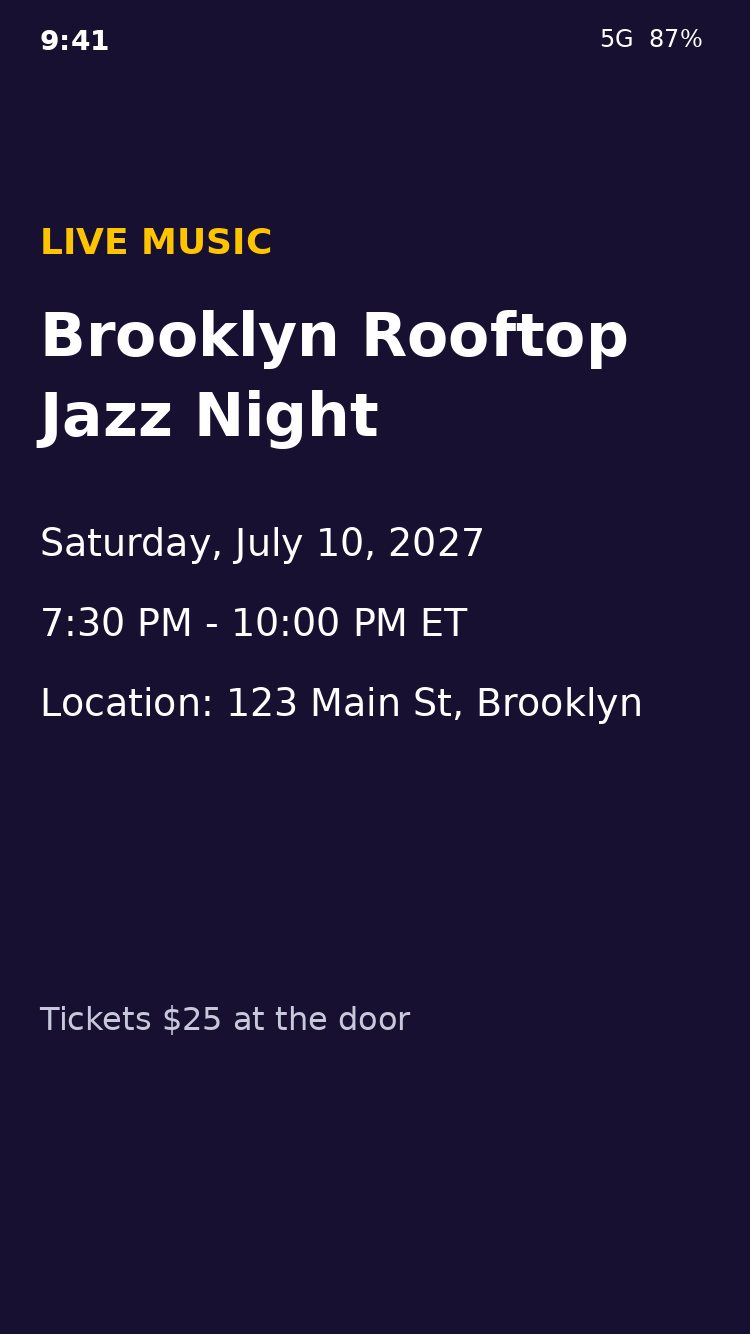
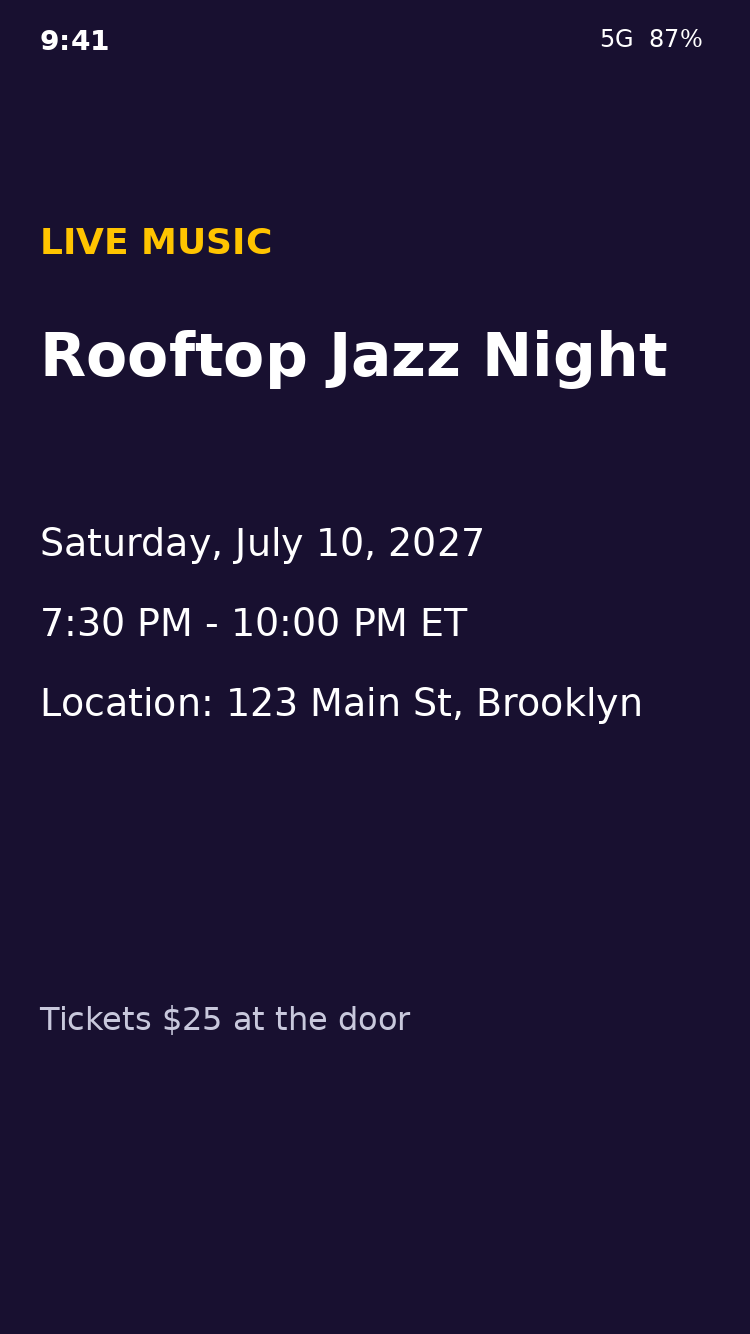
Make sample screenshots OCR-friendly

Changed region(s): [[0.0307, 0.2151, 0.8893, 0.3381]]

diff --git a/samples/make_samples.py b/samples/make_samples.py
@@ -24,7 +24,7 @@ im.save("samples/flight-confirmation.png")
 # 2. Event flyer
 im, d = base((24, 16, 48), "white")
 d.text((40, 220), "LIVE MUSIC", font=font(36, True), fill=(255, 196, 0))
-d.text((40, 300), "Brooklyn Rooftop", font=font(60, True), fill="white"); d.text((40, 380), "Jazz Night", font=font(60, True), fill="white")
+d.text((40, 320), "Rooftop Jazz Night", font=font(60, True), fill="white")
 y = 520
 for line in ["Saturday, July 10, 2027", "7:30 PM - 10:00 PM ET", "Location: 123 Main St, Brooklyn"]:
     d.text((40, y), line, font=font(38), fill="white"); y += 80
@@ -37,6 +37,6 @@ d.text((290, 100), "Family", font=font(34, True), fill="black")
 y = 200
 for line, me in [("Dinner at Nonna's", False), ("2027-01-12 19:30", False), ("Mom's birthday", True), ("Aug 3, 2027", True)]:
     tw = d.textlength(line, font=font(34)); x = W - tw - 70 if me else 40
-    d.rounded_rectangle([x - 20, y - 14, x + tw + 20, y + 54], 28, fill=(0, 122, 255) if me else (229, 229, 234))
-    d.text((x, y), line, font=font(34), fill="white" if me else "black"); y += 110
+    d.rounded_rectangle([x - 20, y - 14, x + tw + 20, y + 54], 28, fill=(205, 226, 255) if me else (229, 229, 234))
+    d.text((x, y), line, font=font(34), fill="black"); y += 110
 im.save("samples/group-chat.png")
